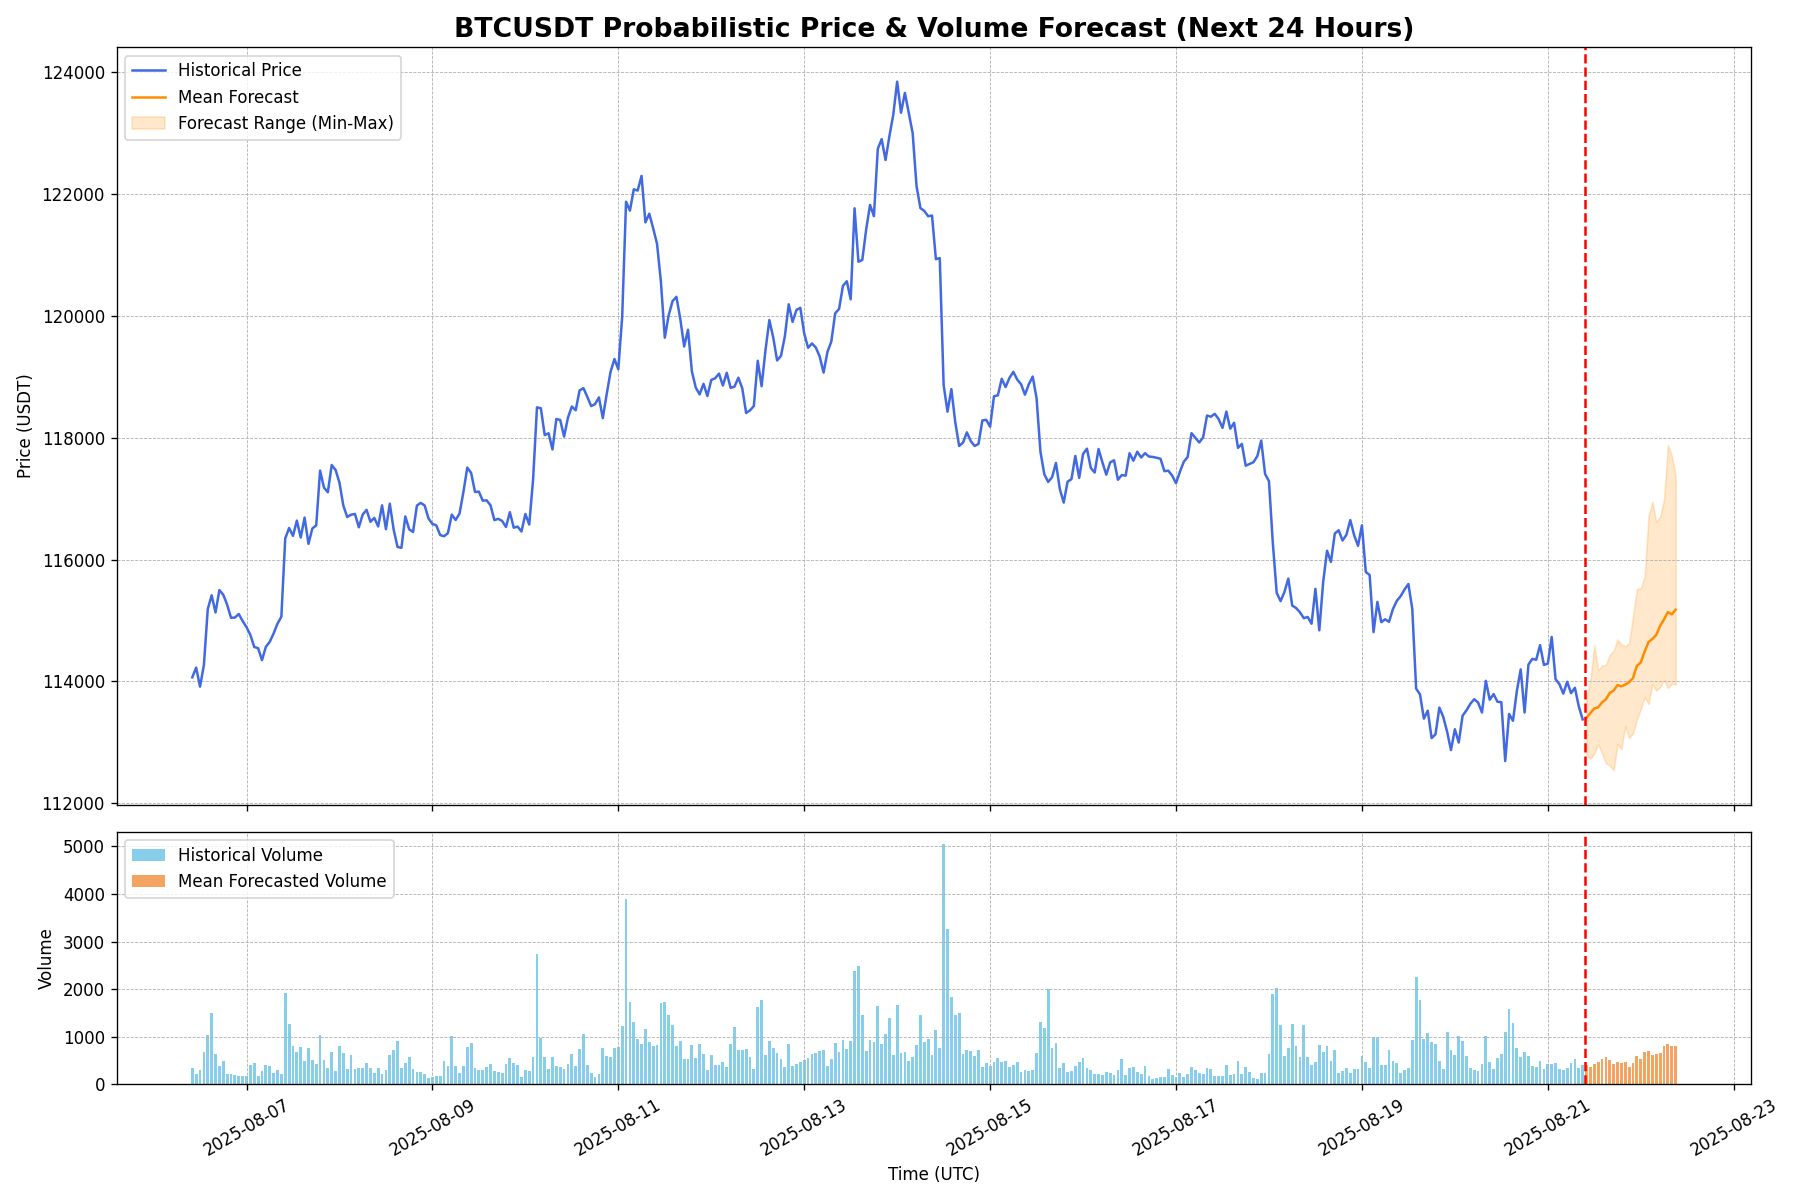
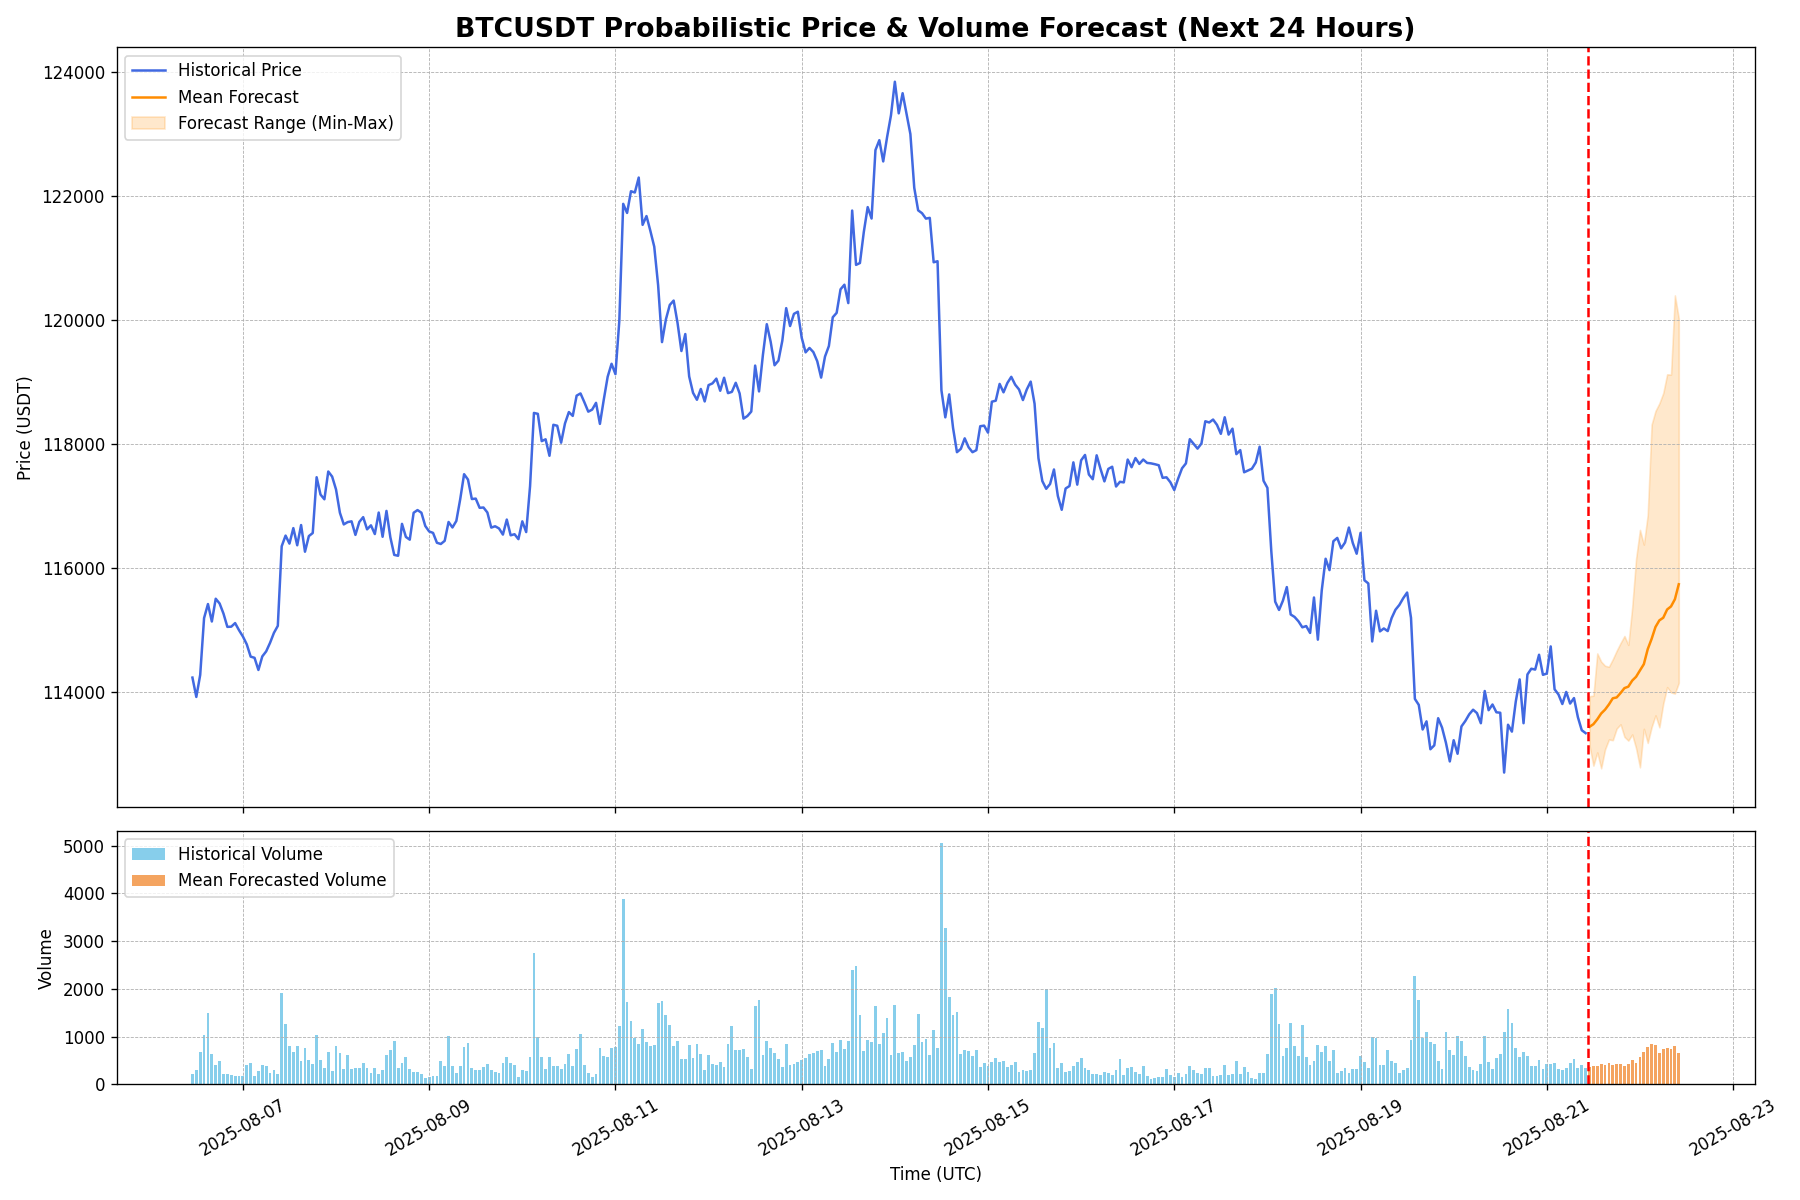
Auto-update forecast for 2025-08-21 11:02 UTC

diff --git a/index.html b/index.html
@@ -22,7 +22,7 @@
         <section id="live-dashboard">
             <h2>Live BTC/USDT Forecast Dashboard</h2>
             <div class="metadata">
-                <span>Last Updated (UTC): <strong id="update-time">2025-08-21 10:02:57</strong></span>
+                <span>Last Updated (UTC): <strong id="update-time">2025-08-21 11:02:54</strong></span>
                 <span>Data Source: Binance | Interval: 1-Hour</span>
             </div>
 
@@ -34,7 +34,7 @@
                 </div>
                 <div class="metric-card">
                     <h3>Volatility Amplification (Next 24h)</h3>
-                    <p class="metric-value" id="vol-amp-prob">6.7%</p>
+                    <p class="metric-value" id="vol-amp-prob">10.0%</p>
                     <div class="metric-desc">The probability that predicted volatility over the next 24h will exceed recent historical volatility.</div>
                 </div>
             </div>
